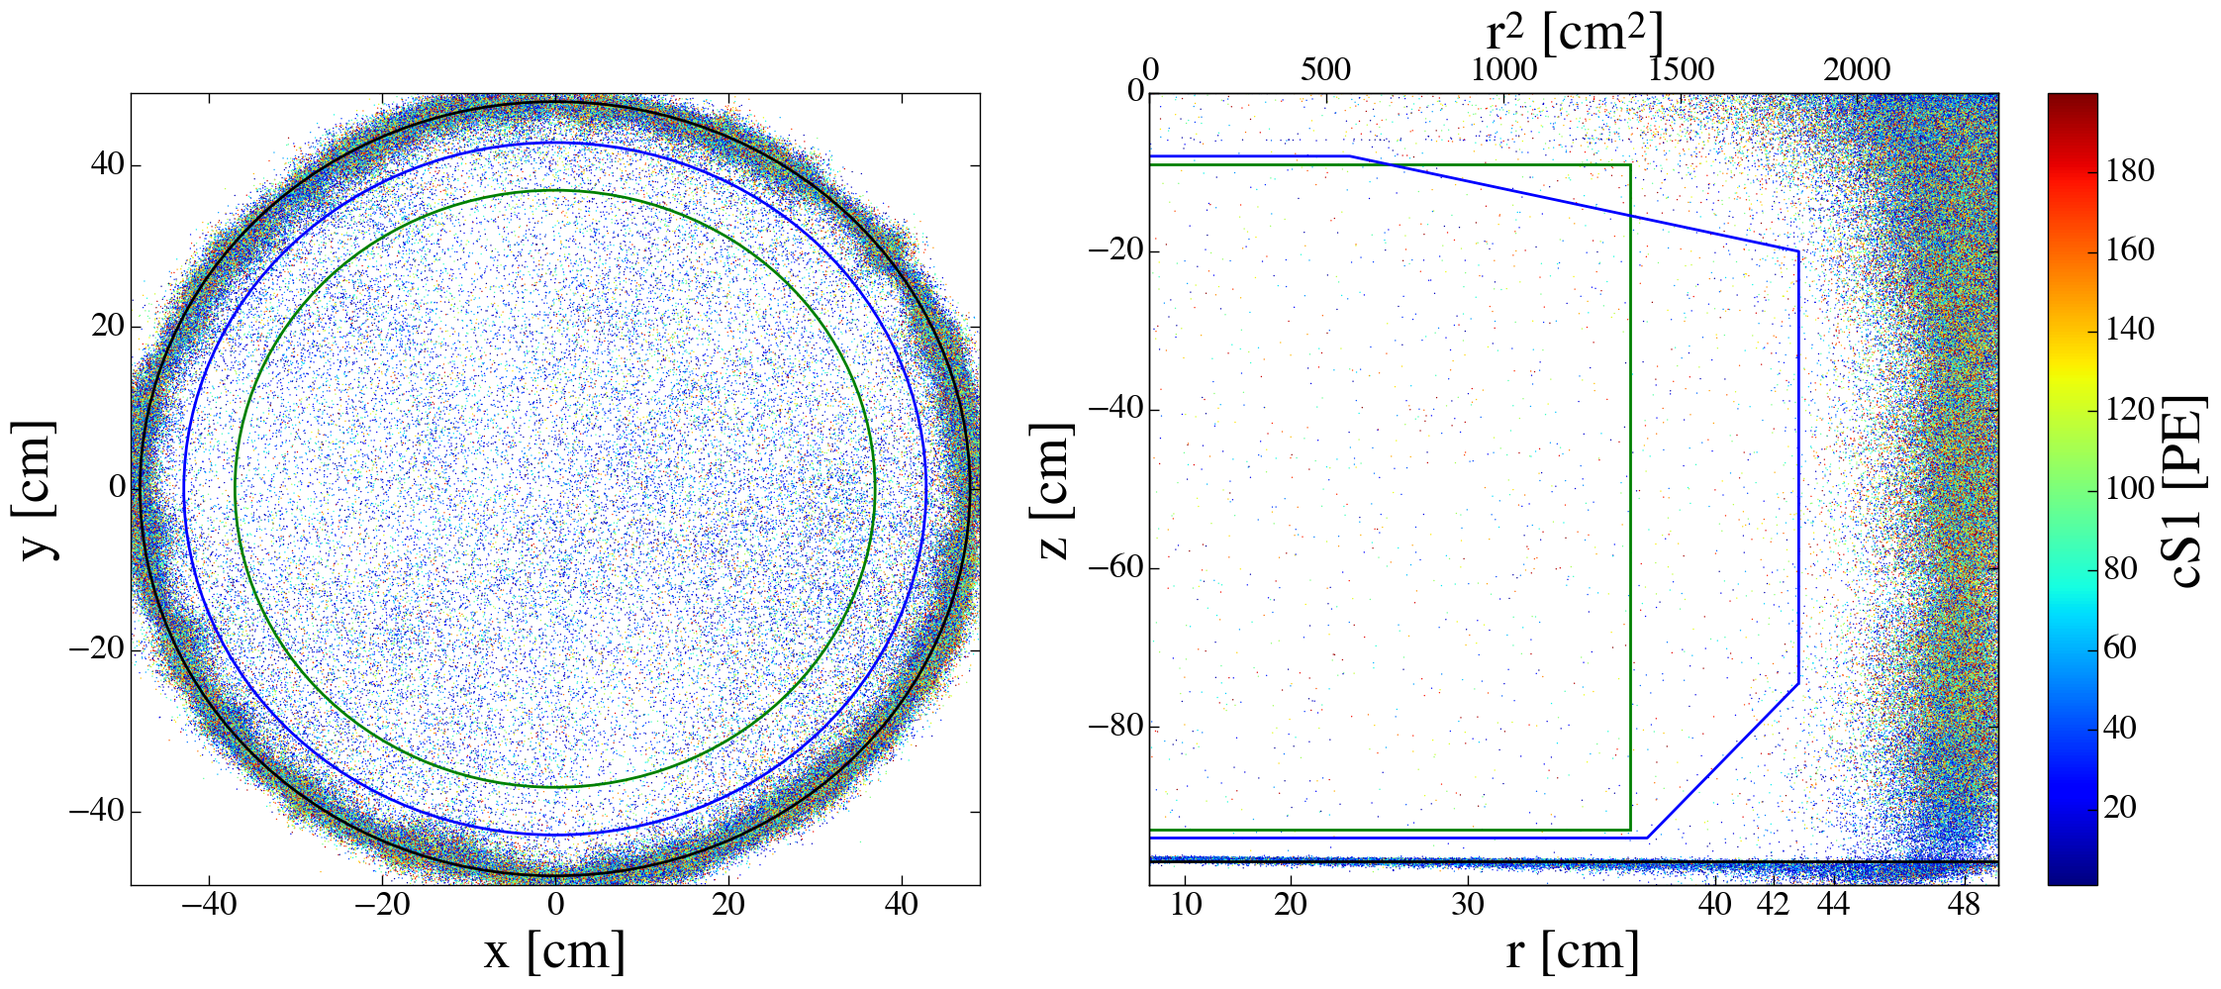
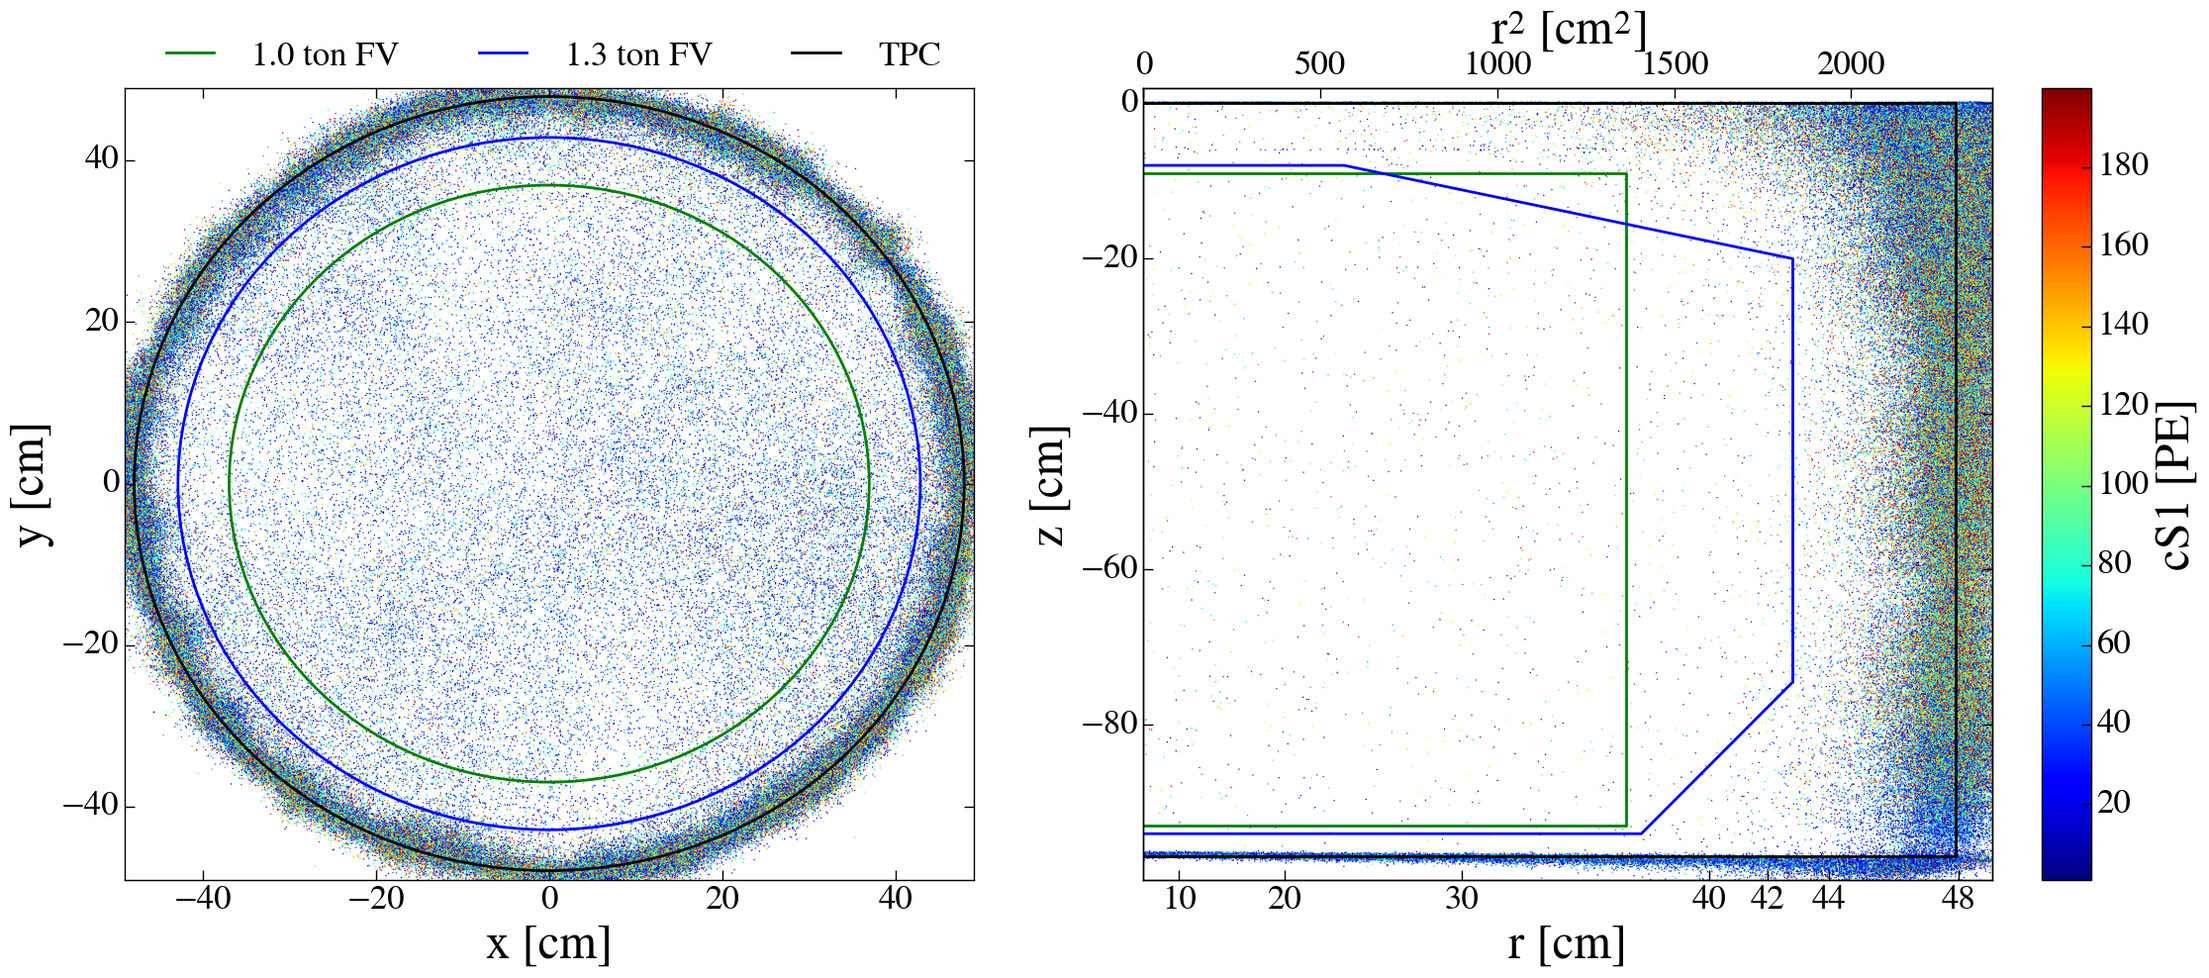
update

diff --git a/Chapter3/Chapter3.tex b/Chapter3/Chapter3.tex
@@ -62,9 +62,9 @@ phototubes is likely to be beneficial longterm.  The finished arrays are shown i
     \centering
     \begin{subfigure}[t]{0.45\textwidth}
         \centering
-        \includegraphics[height=4.5cm]{PMTTopArray}
+        \includegraphics[width=\textwidth]{PMTTopArray}
     \end{subfigure}%
-    \begin{subfigure}[t]{0.45\textwidth}
+    \begin{subfigure}[t]{width=textwidth}
         \centering
         \includegraphics[height=4.5cm]{PMTBottomArray}
     \end{subfigure}
@@ -172,7 +172,7 @@ details on XENON100).
 
 \subsection{TPC}
 \label{subsec:xenon1t_tpc}
-The XENON1T time projection chamber is cylindrical with a 97 cm height and 96 cm diamater.  It encloses a target mass of 2.0 tons where
+The XENON1T time projection chamber is cylindrical with a 96.9 cm height and 47.9 cm diamater.  It encloses a target mass of 2.0 tons where
 light and charge can be measured.  A schematic is shown in \figref{fig:xenon1t_tpc_tpc}.  The interior of the vertical wall consists of 24
 PTFE panels that were treated with diamond tools to
 maximize VUV reflectivity.  Each interlocks with adjacent panels to achieve light-tightness, and the system is designed so that despite
@@ -826,7 +826,7 @@ The final contribution to the NR background comes from neutrinos that participat
 contributor to the integrated NR rate is solar \ce{^{8}B}, which is orders of magnitude larger than other sources and dominant at
 recoil energies $< 3\ \mathrm{keV}$.  Solar $hep$, atmosphere, and diffuse supernova neutrinos also contribute.  We can see in
 \figref{fig:backgrounds_nuclear_muon_induced_nr_fate} that neutrinos are the principal source for recoils at $< 3\ \mathrm{keV}$.  The
-number of detected events at $> 1\ mathrm{keV}$ was predicted to be ${\sim} 90\ \mathrm{t^{-1}\ y^{-1}}$.  While this is below our
+number of detected events at $> 1\ \mathrm{keV}$ was predicted to be ${\sim} 90\ \mathrm{t^{-1}\ y^{-1}}$.  While this is below our
 threshold, Poissonian variations may put a small fraction into our detection region.  By looking at the expected number of events closer
 to our threshold (${sim} 4\ \mathrm{keV}$) this drops to $1.8 \times 10^{-2}\ \mathrm{t^{-1}\ y^{-1}}$.  As mentioned in
 \secref{subsubsec:backgrounds_electronic_solar_neutrinos} neutrinos will compose a greater fraction of our background due to the inability
@@ -1018,12 +1018,19 @@ Neural Network (FANN) library with 24 and 29 nodes in the two hidden layers (seq
 an expected after weighting four other algorithms for its seed, and is known as top pattern fit (TPF).  Both algorithms were trained on MC
 and optimized with $\mathrm{^{83m}Kr}$ data, and achieved a position resolution of $\lesssim 2\ \mathrm{cm}$.  For SR1 the NN was ultimately
 chosen, as the TPF algorithm was more sensitive to dead PMTs and showed some artificial discontinuity in the radial
-direction.  \figref{fig:calibrations_position_reconstruction} shows the position distribution of events in SR1.
+direction.  \figref{fig:calibrations_position_reconstruction} shows the position distribution of events in SR1 along with the 1 ton FV
+that was used in SR0 (\citeref{Aprile2017f}), the 1.3 ton used in SR1, and the active volume.
 
 \begin{figure}
 \centering
 \includegraphics[width=\textwidth]{FVBoth}
-\caption{Background events in SR1.}
+\caption{Positions of background events plotted in $x$ vs. $y$ and $r$ ($r^2$) vs. $z$ for SR1.  The 1 ton FV originally used
+in SR0 is shown in green and defined by $-92.9 < z < -9\ \mathrm{cm}$, $r < 36.94\ \mathrm{cm}$.  The 1.3 ton FV for SR1 is outlined in
+blue, with the maximum radius plotted in the left panel.  Its shape is more complicated but has $z_\mathrm{min} = -94\ \mathrm{cm}$,
+$z_{\mathrm{max}} = -8\ \mathrm{cm}$, and $r_{\mathrm{max}} = 42.84\ \mathrm{cm}$.  The active volume (surrounded by the cathode, wall,
+and gate) is marked in black.  The events that appear outside the wall are wall events that were not properly
+reconstructed.  The events below the cathode result from field inhomogeneities that lead to extended drift times, which is why they
+become more exaggerated towards the bottom corner of the TPC.}
 \label{fig:calibrations_position_reconstruction}
 \end{figure}
 
@@ -1313,6 +1320,10 @@ then are derived from the posterior.  \secref{subsubsec:er_nr_calibrations_param
 \secref{subsubsec:er_nr_calibrations_parameter_determ_nr} (NR) discusses the physical steps that occur beginning with a single energy
 deposition until final cS1 and $\mathrm{cS2_b}$ (and by extension the operations applied in the fast MC).
 
+The calibrations were fit in the SR0 FV ($-92.9 < z < -9\ mathrm{cm}$, $r < 36.94\ \mathrm{cm}$
+\figref{fig:calibrations_position_reconstruction}) despite it being different from SR1.  This was done to minimize wall events as well as
+contamination from materials at the top and bottom of the TPC (mainly PMTs).
+
 
 
 \subsubsection{Electronic Recoils}
@@ -1339,6 +1350,7 @@ $n_q = n_{\mathrm{ex}} + n_{\mathrm{ion}}$ and will be divided according to a bi
 
 \begin{equation}
 n_{\mathrm{ion}} \sim \mathrm{Binom} \Bigg(n = n_{\mathrm{q}},\ p = \frac{1}{1 + \frac{n_{\mathrm{ex}}}{n_{\mathrm{ion}}}} \Bigg)
+\label{eq:er_nr_calibrations_parameter_determ_er_nions}
 \end{equation}
 
 \noindent where $n_{\mathrm{ex}} / n_{\mathrm{ion}}$ is between 0.06-0.2 and expected to be independent of energy
@@ -1361,12 +1373,12 @@ n_{\mathrm{rec}} \sim \mathrm{Binom} \Big(n = n_{\mathrm{ion}},\ p = r \Big)
 
 \noindent yielding a final number of photons and electrons
 
-%\begin{equation}
-\begin{align}
+\begin{equation}
+\begin{aligned}
 n_{\mathrm{ph}} = n_{\mathrm{ex}} + r n_{\mathrm{rec}} \\
 n_{\mathrm{e}} = (1 - r) n_{\mathrm{rec}}
-\end{align}
-%\end{equation}
+\end{aligned}
+\end{equation}
 
 \noindent  As mentioned above \ce{^{220}Rn} is homogeneously spread throughout the TPC and has an energy spectrum that is nearly flat
 between 0-30 keV so its truth MC values ($E$, $x$, $y$, and $z$) were each randomly sampled from a uniform distribution.
@@ -1389,12 +1401,195 @@ deuterium-deuterium (DD) fusion
 \mathrm{^{2}D} + \mathrm{^{2}D} \rightarrow \mathrm{^{3}He} + \mathrm{n}
 \end{equation}
 
-where the \ce{^{3}He} and n are expelled at 0.82 and 2.45 MeV, respectively.  It can operate at rates as low as $10\ \mathrm{n\ s^{-1}}$
-and as high as $10^7\ \mathrm{n\ s^{-1}}$, which allows gives our objectives more flexibility.
+\noindent where the \ce{^{3}He} and n are expelled at 0.82 and 2.45 MeV, respectively.  The energy spectrum can be seen in
+\figref{fig:er_nr_calibrations_parameter_determ_nr_ng_energy}.  It shows two peaks - one at 2.2 MeV and the other at 2.7 MeV.  These
+are the energies as seen in the lab frame (2.45 MeV was in the deuteron's) and correspond to neutrons emitted at $180^{\circ}$ and
+$0^{\circ}$, respectively.  The NG can operate at rates as low as $10\ \mathrm{n\ s^{-1}}$
+and as high as $10^7\ \mathrm{n\ s^{-1}}$, which allows more flexibility in our objectives.  A higher-energy neutron
+population is produced by tritium via
 
-  The NG (NSD Gradel Fusion NSD-35-DD-C-W-S) emits neutrons at ${\sim} 2.2,\ 2.7\ \mathrm{MeV}$ in
-$4\pi$ and is capable of emission rates as low as $10\ \mathrm{n\ s^{-1}}$ (to reduce pile-up) and as high as $10^{7}\ \mathrm{n\ s^{-1}}$
-(\citeref{Lang2018}).
+\begin{figure}
+\centering
+\includegraphics[width=0.6\textwidth]{Fig5Lang2018}
+\caption{Image credit: \citeref{Lang2018}.}
+\label{fig:er_nr_calibrations_parameter_determ_nr_ng_energy}
+\end{figure}
+
+\begin{equation}
+\begin{aligned}
+\mathrm{^{2}D} + \mathrm{^{2}D} \rightarrow \mathrm{^{3}T} + \mathrm{p} \\
+\mathrm{^{3}T} + \mathrm{^{2}D} \rightarrow \mathrm{^{4}He} + \mathrm{n}
+\end{aligned}
+\end{equation}
+
+\noindent that expels neutrons at 14.1 MeV.  The contribution of deuterium-tritium fusion was measured to be $3.5 \pm 0.2\%$ before
+installation at LNGS (\citeref{Lang2018}).  Because the tritium is created in deuterium-deuterium fusion and has
+$t_{1/2} = 1.3\ \mathrm{y}$ this fraction is expected to increase with continued use.  For details on the characterization of the NG
+please refer to \citeref{Lang2018}.
+
+The energies and positions for \ambe and the NG are shown in \figref{fig:er_nr_calibrations_parameter_determ_nr_ambe_spectrum}.  The
+interactions are clustered near a particular $\phi$ that corresponds to the location of the calibration source.  However, we expect our
+detector does not vary along $\phi$ so the lopsided position distribution can be applied to the entire active volume.
+
+\begin{figure}
+    \centering
+    \begin{subfigure}[t]{0.45\textwidth}
+        \centering
+        \includegraphics[width=\textwidth]{AmBeEnergy}
+    \end{subfigure}%
+    \begin{subfigure}[t]{0.45\textwidth}
+        \centering
+        \includegraphics[width=\textwidth]{AmBePositions}
+    \end{subfigure}
+    \vskip\baselineskip
+    \begin{subfigure}[t]{0.45\textwidth}
+        \centering
+        \includegraphics[width=\textwidth]{NGEnergy}
+    \end{subfigure}%
+    \begin{subfigure}[t]{0.45\textwidth}
+        \centering
+        \includegraphics[width=\textwidth]{NGPositions}
+    \end{subfigure}
+    \caption{}
+	\label{fig:er_nr_calibrations_parameter_determ_nr_ambe_spectrum}
+\end{figure}
+
+The processes that follow a nuclear recoil differ quite a bit from ER (\secref{subsubsec:er_nr_calibrations_parameter_determ_er}).  As
+discussed in \secref{sec:nr} a sizable portion of the energy is lost to atomic motion.  To model this we use the Lindhard theory
+as shown in \eqref{eq:er_nr_calibrations_parameter_determ_nr_lindhard}.
+
+\begin{equation}
+\begin{aligned}
+\epsilon = 11.5 Big( \frac{E}{\mathrm{keV}} Z^{-7/3} \Big)
+g(\epsilon) = 3 \epsilon^{0.15} + 0.7 \epsilon^{0.6} + \epsilon \\
+L(\epsilon) = \frac{k g(\epsilon)}{1 + k g(\epsilon)}
+\label{eq:er_nr_calibrations_parameter_determ_nr_lindhard}
+\end{aligned}
+\end{equation}
+
+Here $k$ represents the proportionality constant between the electronic stopping power and recoiling nucleus velocity.  The Linhard factor
+$L$ is the fraction of energy not converted to excitons or electron-ion pairs
+
+\begin{equation}
+n_{\mathrm{q}} \sim P \Big( \mu = \frac{E L}{W} \Big)
+\end{equation}
+
+\noindent that uses a Poisson distribution as an approximation.  In reality the track structure of nuclear recoils makes the true
+distribution more complicated.  From the number of quanta we follow from \eqref{eq:er_nr_calibrations_parameter_determ_er_nions} for
+electronic recoils
+
+\begin{equation}
+n_{\mathrm{ion}} \sim \mathrm{Binom} \Bigg(n = n_{\mathrm{q}},\ p = \frac{1}{1 + \frac{n_{\mathrm{ex}}}{n_{\mathrm{ion}}}} \Bigg)
+\end{equation}
+
+\noindent and $n_{\mathrm{ex}} = n_{\mathrm{q}} - n_{\mathrm{ion}}$.  Recombination is given by
+
+\begin{equation}
+n_{\mathrm{rec}} \sim \mathrm{Binom} \Big(n = n_{\mathrm{ion}},\ p = r \Big)
+\end{equation}
+
+\noindent but $r$ now is described by the Thomas-Imel model (\citeref{Thomas1987}).
+
+\begin{equation}
+r = 1 - \frac{\mathrm{ln} (1 + n_{\mathrm{ion}} \varsigma)}{n_{\mathrm{ion}} \varsigma}
+\end{equation}
+
+\noindent where $\varsigma$ is field-dependent.  Unlike ER, no recombination fluctuations have been observed for nuclear recoils so
+$\delta r$ is not considered.  We must also consider biexcitonic quenching and the Penning process, both of which decrease
+$\mathrm{n_{ph}}$.  The former arises when two
+\ce{Xe^{*}} interact to free an $e^-$, which in turn quickly loses its kinetic energy
+and recombines with a \ce{Xe^{+}}.  Thus what would have been two photons instead results in one.  The Penning process describes when
+two excimers interact and result in an excited and ground state (\citref{Mei2008}).  Both of these depend on the exciton density, which
+is proportional to the ionization density and therefore stopping power $dE / dx$.  Both of these processes result in quenching and can be
+described by Birks' saturation law, shown in \eqref{eq:er_nr_calibrations_parameter_determ_nr_birks} (\citeref{Birks1951, Birks1964}).
+
+\begin{equation}
+f_l = \frac{1}{1 + k_{B}B \frac{dE}{dx}} = \frac{1}{1 + \eta \epsilon^{\lambda}}
+\label{eq:er_nr_calibrations_parameter_determ_nr_birks}
+\end{equation}
+
+where $k_B$ is Birks' constant (calculated in \citeref{Mei2008} to be $2.015 \times 10^{-3}\ \mathrm{g\ MeV^{-1}\ cm^{-2}}$), $B$ is
+the coefficient to the stopping power, and $\eta$ is defined to be their product.  The total quenching due to biexcitonic quenching and
+the Penning process is then
+
+\begin{equation}
+n_{\mathrm{q}} = B(n = n_{\mathrm{ex}},\ p = f_l)
+\end{equation}
+
+\noindent reducing $n_{\mathrm{ex}} \rightarrow n_{\mathrm{ex}} - n_{\mathrm{q}} \rightarrow n_{\mathrm{ex}}$.
+
+For the \ambe and NG calibrations we constrained our nuclear recoil model based on previous measurements of light and charge yield,
+instead of performing an independent measurement.  This decision was made to prevent detector effects from compensating for changes
+in the liquid xenon response model.  We applied the results from \citeref{NEST2015}, which uses nuclear recoil light and charge yield
+measurements between $1 \mdash 300\ \mathrm{keV}$ and electric fields of $0 \mdash 4060\ \mathrm{V\ cm^{-1}}$ to fit the model
+detailed in this section.  Although the none of the measurements were made for light and charge yield simultaneously, \citeref{NEST2015}
+performed a single fit including all data.
+
+The model is parameterized by setting
+
+\begin{equation}
+\frac{n_{\mathrm{ex}}}{n_{\mathrm{ion}}} = \alpha F_{E}^{\zeta} ( 1 - e^{-\beta \epsilon})
+\label{eq:er_nr_calibrations_parameter_determ_nr_nex_nion}
+\end{equation}
+
+\begin{equation}
+\varsigma = \gamma F_{E}^{- \delta}
+\label{eq:er_nr_calibrations_parameter_determ_nr_recomb_sigma}
+\end{equation}
+
+\noindent where, to differentiate from energy $E$ and the Fano Factor $F$, the electric field is referred to as $F_E$.  Note that
+from \eqref{eq:er_nr_calibrations_parameter_determ_nr_nex_nion} $n_{\mathrm{ex}} / n_{\mathrm{ion}}$ has a power dependence on $F_E$,
+which is suspected to be caused by geminate recombination: when electrons and parent ions recombine much more quickly than Thomas-Imel
+recombination.  In addition $n_{\mathrm{ex}} / n_{\mathrm{ion}}$ depends exponentially on energy such that at higher $E$ a larger fraction
+of excitons is favored.
+
+We see in \eqref{eq:er_nr_calibrations_parameter_determ_nr_recomb_sigma} that $\varsigma$ is proportional to a power of $F_E$.  As
+mentioned in \secref{subsec:recombination} the Thomas-Imel theory predicts
+
+\begin{equation}
+\varsigma = \frac{\alpha^{'}}{4 a^2 u_- F_E}
+\end{equation}
+
+\noindent where $\alpha^'$ is a recombination coefficient, $a$ is the dimension of the box, and $u_-$ is the electron mobility.  While
+here $\delta = 1$ strictly, Dahl's model predicts $\delta {\sim} 0.1$ (\citeref{Dahl2009}).
+
+\citeref{NEST2015} leaves $k$ (\eqref{er_nr_calibrations_parameter_determ_nr_lindhard}), $\eta$ and $\lambda$
+(\eqref{eq:er_nr_calibrations_parameter_determ_nr_birks}), $\alpha$, $\zeta$ and $\beta$
+(\eqref{eq:er_nr_calibrations_parameter_determ_nr_nex_nion}), and $\gamma$ and $\delta$
+(\eqref{eq:er_nr_calibrations_parameter_determ_nr_recomb_sigma}) as free parameters to fit.  The results are shown in
+\tabref{tab:er_nr_calibrations_parameter_determ_nr_nest}.
+
+\bgroup
+\def\arraystretch{1.2}
+\begin{table}
+\centering
+\begin{tabular}{cccc}
+\hline
+Parameter & Best Fit & Equation \\
+\hline
+$\alpha$ & $1.240_{-0.073}^{+0.079}$ & \eqref{eq:er_nr_calibrations_parameter_determ_nr_birks} \\
+$\zeta$ & $4.72_{-0.73}^{+0.88} \times 10^{-2} $ & \eqref{eq:er_nr_calibrations_parameter_determ_nr_birks} \\
+$\beta$ & $239_{-8.8}^{+28}$ \eqref{eq:er_nr_calibrations_parameter_determ_nr_birks} \\
+$\gamma$ & $1.385_{-0.073}^{+0.058} \times 10^{-2}$ & \eqref{eq:er_nr_calibrations_parameter_determ_nr_nex_nion} \\
+$\delta$ & $6.20_{-0.64}^{+0.56} \times 10^{-2}$ & \eqref{eq:er_nr_calibrations_parameter_determ_nr_nex_nion} \\
+$k$ & $0.1394_{-0.0026}^{+0.0032}$ & \eqref{er_nr_calibrations_parameter_determ_nr_lindhard} \\
+$\eta$ & $3.3_{-0.7}^{+5.3}$ &  \eqref{eq:er_nr_calibrations_parameter_determ_nr_birks} \\
+$\lambda$ & $1.14_{-0.09}^{+0.45}$ & \eqref{eq:er_nr_calibrations_parameter_determ_nr_birks} \\
+\hline
+\end{tabular}
+\caption{Best fit values along with 68\% confidence intetervals from the \citeref{NEST2015} analysis to available nuclear recoil light and
+charge yields.}
+\label{tab:er_nr_calibrations_parameter_determ_nr_nest}
+\end{table}
+\egroup
+
+For the SR1 NR fit the values listed in \tabref{tab:er_nr_calibrations_parameter_determ_nr_nest} are used as priors.  Each parameter is
+constrained by a gaussian with standard deviation equal to the mean of the $+$ and $-$ uncertainties.  In the future these will be
+constrained by asymmetric gaussians.
+
+
+
+
 
 
 

diff --git a/Chapter2/Chapter2.tex b/Chapter2/Chapter2.tex
@@ -353,25 +353,25 @@ of the electron and is disregarded.  Thus \eqref{eq:diff_plus} and \eqref{eq:dif
 \citeref{Thomas1987}, the recombination fraction can be solved as
 
 \begin{equation}
-r = 1 - \frac{1}{\xi} \mathrm{ln}(1 + \xi),\ \ \xi = \frac{N_{i} \alpha}{4 a^{2} u_{-} E}
+r = 1 - \frac{\mathrm{ln} (1 + n_{\mathrm{ion}} \varsigma)}{n_{\mathrm{ion}} \varsigma},\ \varsigma = \frac{\alpha}{4 a^{2} u_{-} E}
 \label{eq:ti_recomb}
 \end{equation}
 
 \noindent where a box of dimension $a$ contains charge quantity $N_{i}$ uniformly spread.  This is known as the Thomas-Imel box model,
 and has been successful at explaining recombination measurements as shown in \figref{fig:ti_recomb}.  Zero recombination corresponds to
-$\xi \rightarrow 0$ and total is given by $\xi \rightarrow \infty$.  Note that $E = 0$ equates to total recombination, though as
-mentioned above, this may occur outside of the typical observation window.
+$\varsigma \rightarrow 0$ and total is given by $\varsigma \rightarrow \infty$.  Note that $E = 0$ equates to total recombination, though
+as mentioned above, this may occur outside of the typical observation window.
 
 \begin{figure}
 \includegraphics[width=0.8\textwidth]{TIRecombination}
 \caption{Measurements of charge collected $q \propto 1 - r$ for LAr and LXe vs. $E$.  Squares correspond to LXe and were measured with
-$\xi E = 0.15\ \mathrm{kV\ cm^{-1}}$.  Triangles and circles are LAr and were measured at $\xi E = 0.84\ \mathrm{kV\ cm^{-1}}$.  Curves
-are best fit for box model (\citeref{Thomas1987}).}
+$\varsigma E = 0.15\ \mathrm{kV\ cm^{-1}}$.  Triangles and circles are LAr and were measured at
+$\varsigma E = 0.84\ \mathrm{kV\ cm^{-1}}$.  Curves are best fit for box model (\citeref{Thomas1987}).}
 \label{fig:ti_recomb}
 \end{figure}
 
 The Thomas-Imel box model works well for short particle tracks but does not accurately predict long.  At longer particle tracks a Birks'
-Law (originally developed for foro organic scintillators, \citeref{Birks1964}) derivation for liquid noble gases yields
+Law (originally developed for foro organic scintillators, \citeref{Birks1951, Birks1964}) derivation for liquid noble gases yields
 
 \begin{equation}
 \frac{dN_{\pm}}{dt} = -\alpha N_{+} N_{-}
@@ -402,7 +402,8 @@ density is so high only a small percent of \electron avoid recombination, even a
 (for electrons this would be nearly 100\%) (\citeref{Chepel2013}).  The consistency in charge collection across different fields causes
 difficulties in distinguishing recombination from initial excitation.
 
-Birk's saturation law gives rise to biexcitonic quenching, which was briefly mentioned in \secref{subsec:primary}.  The process is
+Birk's saturation law gives explains both biexcitonic quenching and the Penning process.  Biexcitonic quenching was briefly mentioned in
+\secref{subsec:primary}.  The process is
 
 \begin{equation}
 \mathrm{Xe}^{*} + \mathrm{Xe}^{*} \rightarrow \mathrm{Xe} + \mathrm{Xe}^{+} + e^{-}
@@ -415,12 +416,14 @@ resulting in a single photon emission instead of the two from the initial excito
 be parameterized by
 
 \begin{equation}
-f_{l} = \frac{1}{1 + kB \frac{dE}{dx}}
+f_{l} = \frac{1}{1 + k_B B \frac{dE}{dx}}
 \label{eq:nr_scint_quench}
 \end{equation}
 
-\noindent where $dE/dx$ here is the electronic stopping power.  In $\beta$ and $\gamma$ interactions the energy track is
-sufficiently sparse that the chances of two excitons doing so is close to 0.
+\noindent where $k_B$ is Birks' constant and $dE/dx$ is the electronic stopping power.  The Penning process is when two excimers interact
+to form one excited
+state and one ground state, which results in an additional quenching (\citeref{Mei2008}).  In $\beta$ and $\gamma$ interactions the energy
+track is sufficiently sparse that the chances of two excitons doing so is close to 0.
 
 This was first parameterized by \citeref{Hitachi1992, Hitachi2002, Hitachi2005}
 

diff --git a/Dissertation.tex b/Dissertation.tex
@@ -163,6 +163,7 @@
 \newcommand{\prc}{Phys. Rev. C}
 \newcommand{\prd}{Phys. Rev. D}
 \newcommand{\prl}{Phys. Rev. Lett.}
+\newcommand{\ppsa}{Proc. Phys. Soc. A}
 \newcommand{\rmp}{Rev. of Mod. Phys.}
 \newcommand{\rpc}{Rad. Phys. and Chem.}
 \newcommand{\rsi}{Rev. of Sci. Instr.}
